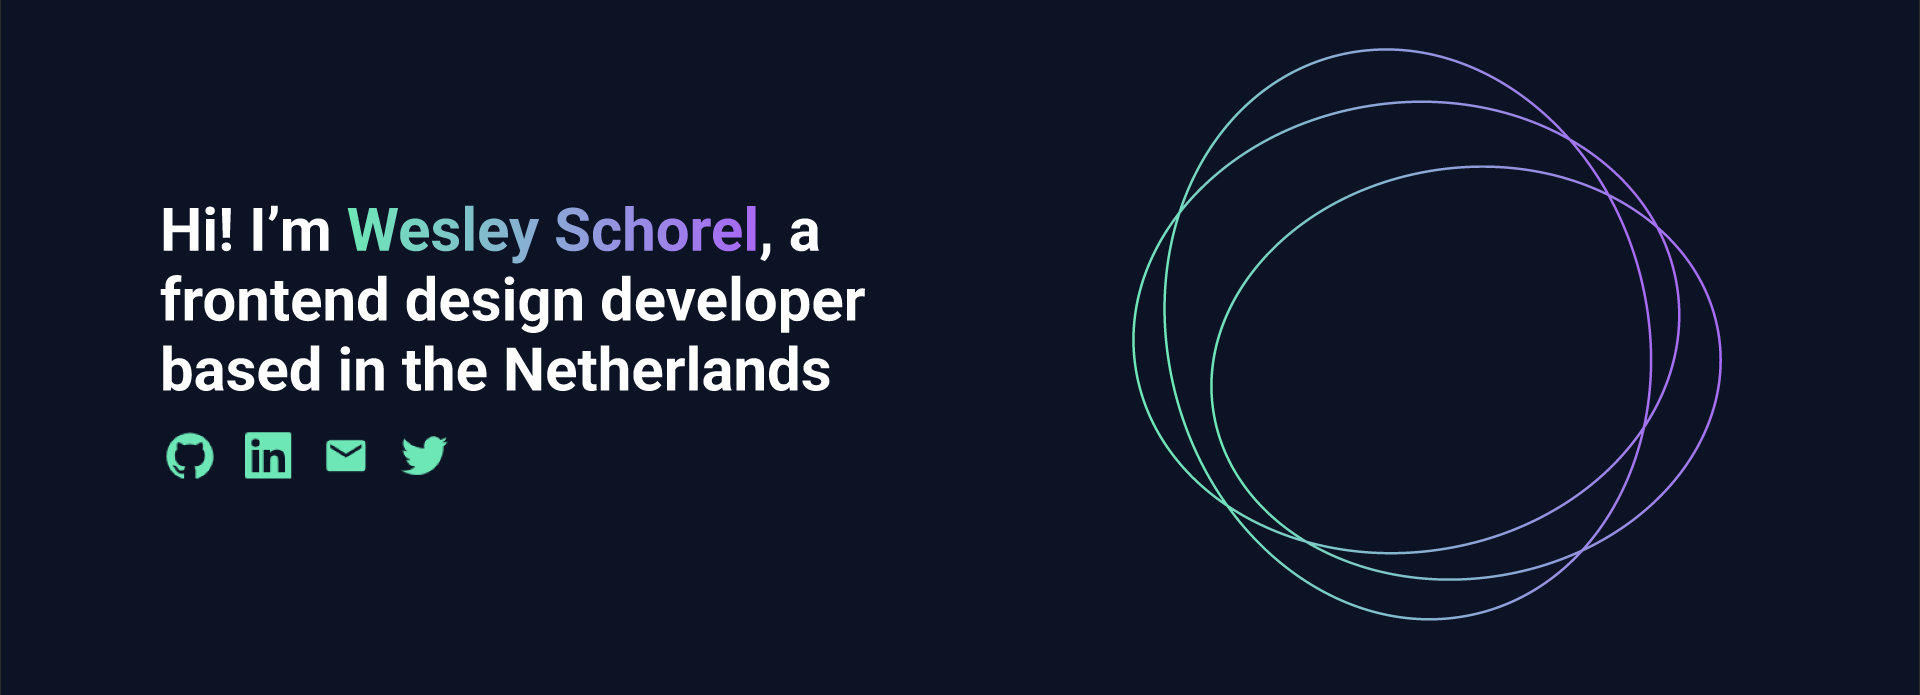
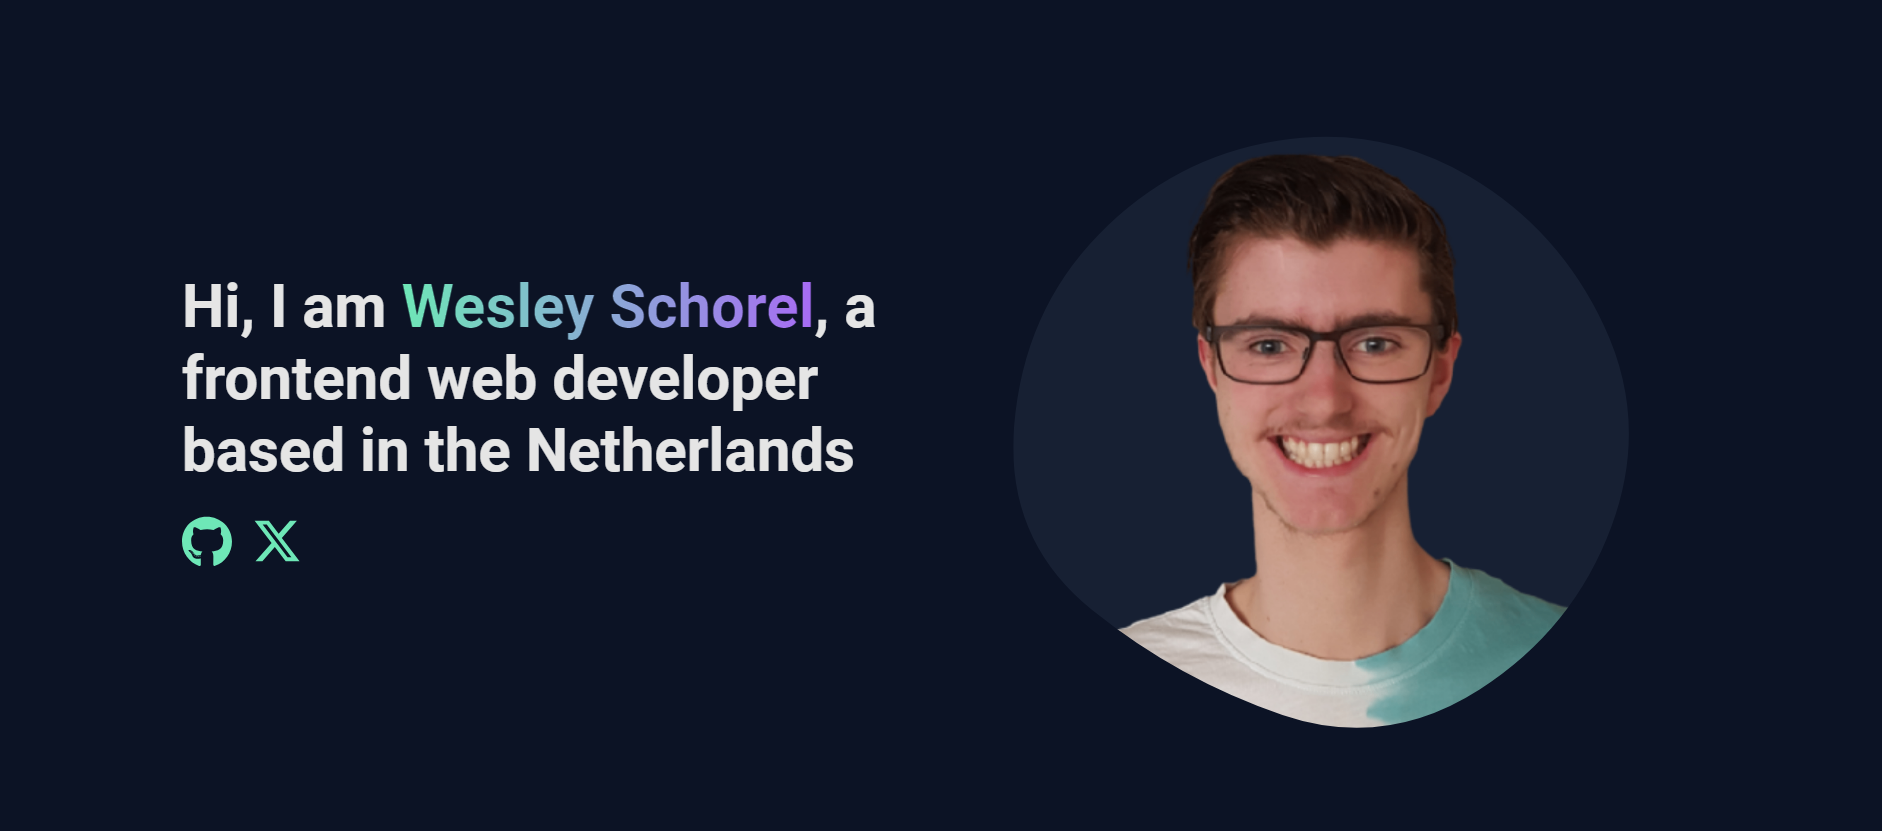
More slices, minor design changes
Changelog:
- Added About slice
- Added my avatar

diff --git a/src/lib/slices/Introduction/index.svelte b/src/lib/slices/Introduction/index.svelte
@@ -7,6 +7,7 @@
   data-slice-type={slice.slice_type}
   data-slice-variation={slice.variation}
 >
+<article>
   <div class="text-container">
     <h1>
       {slice.primary.title_start} <span>{slice.primary.title_name}</span>{slice
@@ -14,26 +15,25 @@
     </h1>
     <ul>
       <li>
-        <a prefetch href="https://github.com/WesleySchorel" target="_blank">Github</a>
+        <a prefetch href="https://github.com/WesleySchorel" target="_blank"><img src="github.svg" alt=" "/></a>
       </li>
       <li>
-        <a prefetch href="https://nl.linkedin.com/in/WesleySchorel" target="_blank">Linkedin</a>
-      </li>
-      <li>
-        <a prefetch href="/">Mail</a>
-      </li>
-      <li>
-        <a prefetch href="https://twitter.com/WesleySchorel" target="_blank">Twitter</a>
+        <a prefetch href="https://twitter.com/WesleySchorel" target="_blank"><img src="x-twitter.svg" alt=" "/></a>
       </li>
     </ul>
   </div>
   <div class="img-container">
-    <img src={slice.primary.circle.url} alt=" " />
+    <svg version="1.1" xmlns="http://www.w3.org/2000/svg" viewBox="0 0 500 500" width="100%" id="blobSvg" style="opacity: 1;"><image x="0" y="0" width="100%" height="100%" clip-path="url(#shape)" href="avatar.png" preserveAspectRatio="none"></image>                        <defs>                        <linearGradient id="gradient" x1="0%" y1="0%" x2="0%" y2="100%">                            <stop offset="0%" style="stop-color: rgb(238, 205, 163);"></stop>                            <stop offset="100%" style="stop-color: rgb(239, 98, 159);"></stop>                        </linearGradient>                        </defs>                                            <clipPath id="shape"><path id="blob" fill="url(#gradient)">                            <animate attributeName="d" dur="10000ms" repeatCount="indefinite" values="M440.5,320.5Q418,391,355.5,442.5Q293,494,226,450.5Q159,407,99,367Q39,327,31.5,247.5Q24,168,89,125.5Q154,83,219.5,68Q285,53,335.5,94.5Q386,136,424.5,193Q463,250,440.5,320.5Z;M453.78747,319.98894Q416.97789,389.97789,353.96683,436.87838Q290.95577,483.77887,223.95577,447.43366Q156.95577,411.08845,105.64373,365.97789Q54.33169,320.86732,62.67444,252.61056Q71.01719,184.3538,113.01965,135.21007Q155.02211,86.06634,220.52211,66.46683Q286.02211,46.86732,335.5,91.94472Q384.97789,137.02211,437.78747,193.51106Q490.59704,250,453.78747,319.98894Z;M411.39826,313.90633Q402.59677,377.81265,342.92059,407.63957Q283.24442,437.46649,215.13648,432.5428Q147.02853,427.61911,82.23325,380.9572Q17.43796,334.29529,20.45223,250.83809Q23.46649,167.38089,82.5856,115.05707Q141.70471,62.73325,212.19045,63.73015Q282.67618,64.72705,352.67308,84.79839Q422.66998,104.86972,421.43486,177.43486Q420.19974,250,411.39826,313.90633Z;M440.5,320.5Q418,391,355.5,442.5Q293,494,226,450.5Q159,407,99,367Q39,327,31.5,247.5Q24,168,89,125.5Q154,83,219.5,68Q285,53,335.5,94.5Q386,136,424.5,193Q463,250,440.5,320.5Z;"></animate>                        </path></clipPath></svg>
   </div>
+</article>
 </section>
 
 <style>
   section {
+    background-color: var( --c-background);
+  }
+
+  article {
     display: grid;
     grid-template-columns: 1fr 1fr;
     grid-template-rows: 1fr;
@@ -41,6 +41,9 @@
     gap: 0px 0px;
     grid-auto-flow: row;
     grid-template-areas: "text img";
+    margin: auto;
+    width: 80%;
+    /* border: 3px solid var(--c-error); */
   }
 
   .text-container {
@@ -58,12 +61,21 @@
   .text-container li {
         display: flex;
         flex-direction: column;
-        padding-right: 0.5rem;
+        padding: 1.5rem 1rem 0 0;
     }
+
+  .text-container li img {
+    width: 2.5rem;
+  }
+
+  .text-container li img:hover {
+    transform: translateY(-3px);
+  }
+
 
   /* .text-container a {
     background-color: var(--c-socials);
-    padding: 0.5rem;
+    padding: 1rem;
   } */
 
   .img-container {

diff --git a/src/prismicio-types.d.ts b/src/prismicio-types.d.ts
@@ -4,7 +4,7 @@ import type * as prismic from "@prismicio/client";
 
 type Simplify<T> = { [KeyType in keyof T]: T[KeyType] };
 
-type HomepageDocumentDataSlicesSlice = IntroductionSlice;
+type HomepageDocumentDataSlicesSlice = AboutSlice | IntroductionSlice;
 
 /**
  * Content for homepage documents
@@ -73,6 +73,58 @@ export type HomepageDocument<Lang extends string = string> =
 export type AllDocumentTypes = HomepageDocument;
 
 /**
+ * Primary content in *About → Primary*
+ */
+export interface AboutSliceDefaultPrimary {
+  /**
+   * title field in *About → Primary*
+   *
+   * - **Field Type**: Text
+   * - **Placeholder**: *None*
+   * - **API ID Path**: about.primary.title
+   * - **Documentation**: https://prismic.io/docs/field#key-text
+   */
+  title: prismic.KeyTextField;
+
+  /**
+   * text field in *About → Primary*
+   *
+   * - **Field Type**: Text
+   * - **Placeholder**: *None*
+   * - **API ID Path**: about.primary.text
+   * - **Documentation**: https://prismic.io/docs/field#key-text
+   */
+  text: prismic.KeyTextField;
+}
+
+/**
+ * Default variation for About Slice
+ *
+ * - **API ID**: `default`
+ * - **Description**: Default
+ * - **Documentation**: https://prismic.io/docs/slice
+ */
+export type AboutSliceDefault = prismic.SharedSliceVariation<
+  "default",
+  Simplify<AboutSliceDefaultPrimary>,
+  never
+>;
+
+/**
+ * Slice variation for *About*
+ */
+type AboutSliceVariation = AboutSliceDefault;
+
+/**
+ * About Shared Slice
+ *
+ * - **API ID**: `about`
+ * - **Description**: About
+ * - **Documentation**: https://prismic.io/docs/slice
+ */
+export type AboutSlice = prismic.SharedSlice<"about", AboutSliceVariation>;
+
+/**
  * Primary content in *Introduction → Primary*
  */
 export interface IntroductionSliceDefaultPrimary {
@@ -105,16 +157,6 @@ export interface IntroductionSliceDefaultPrimary {
    * - **Documentation**: https://prismic.io/docs/field#key-text
    */
   title_end: prismic.KeyTextField;
-
-  /**
-   * circle field in *Introduction → Primary*
-   *
-   * - **Field Type**: Image
-   * - **Placeholder**: *None*
-   * - **API ID Path**: introduction.primary.circle
-   * - **Documentation**: https://prismic.io/docs/field#image
-   */
-  circle: prismic.ImageField<never>;
 }
 
 /**
@@ -161,6 +203,10 @@ declare module "@prismicio/client" {
       HomepageDocumentData,
       HomepageDocumentDataSlicesSlice,
       AllDocumentTypes,
+      AboutSlice,
+      AboutSliceDefaultPrimary,
+      AboutSliceVariation,
+      AboutSliceDefault,
       IntroductionSlice,
       IntroductionSliceDefaultPrimary,
       IntroductionSliceVariation,

diff --git a/src/lib/slices/About/index.svelte b/src/lib/slices/About/index.svelte
@@ -1,0 +1,30 @@
+<script>
+  /** @type {import("@prismicio/client").Content.AboutSlice} */
+  export let slice;
+</script>
+
+<section
+  data-slice-type={slice.slice_type}
+  data-slice-variation={slice.variation}
+>
+  <article>
+    <h1><span>{slice.primary.title}</span>.</h1>
+    <p>{slice.primary.text}</p>
+  </article>
+</section>
+
+<style>
+  section {
+    background-color: var(--c-background-1);
+  }
+
+  article {
+    margin: auto;
+    width: 80%;
+    /* border: 3px solid var(--c-error); */
+  }
+
+  p {
+    width: 65%;
+  }
+</style>

diff --git a/src/global.css b/src/global.css
@@ -3,6 +3,7 @@
 :root {
     /* Main Colors */
     --c-background: rgb(12, 19, 37);
+    --c-background-1: rgb(17, 25, 45);
 
     /* Text Colors */
     --c-text: rgb(229, 229, 229);
@@ -26,14 +27,8 @@ body {
     font-family: 'Roboto', sans-serif;
 }
 
-main {
-    margin: auto;
-    width: 80%;
-    /* border: 3px solid var(--c-error); */
-}
-
-section {
-    margin: 2rem 0 2rem 0;
+article {
+   padding: 3rem 0 3rem 0;
 }
 
 /* Text Styling */

diff --git a/src/routes/+layout.svelte b/src/routes/+layout.svelte
@@ -24,7 +24,7 @@
     nav {
         margin: auto;
         width: 80%;
-        padding: 1rem 0 1rem 0;
+        padding: 1rem 0 0rem 0;
     }
 
     nav a {
@@ -38,6 +38,6 @@
     li {
         display: flex;
         flex-direction: column;
-        padding-right: 0.5rem;
+        padding-right: 1rem;
     }
 </style>

diff --git a/src/lib/slices/index.js b/src/lib/slices/index.js
@@ -1,7 +1,9 @@
 // Code generated by Slice Machine. DO NOT EDIT.
 
+import About from "./About/index.svelte";
 import Introduction from "./Introduction/index.svelte";
 
 export const components = {
+  about: About,
   introduction: Introduction,
 };
